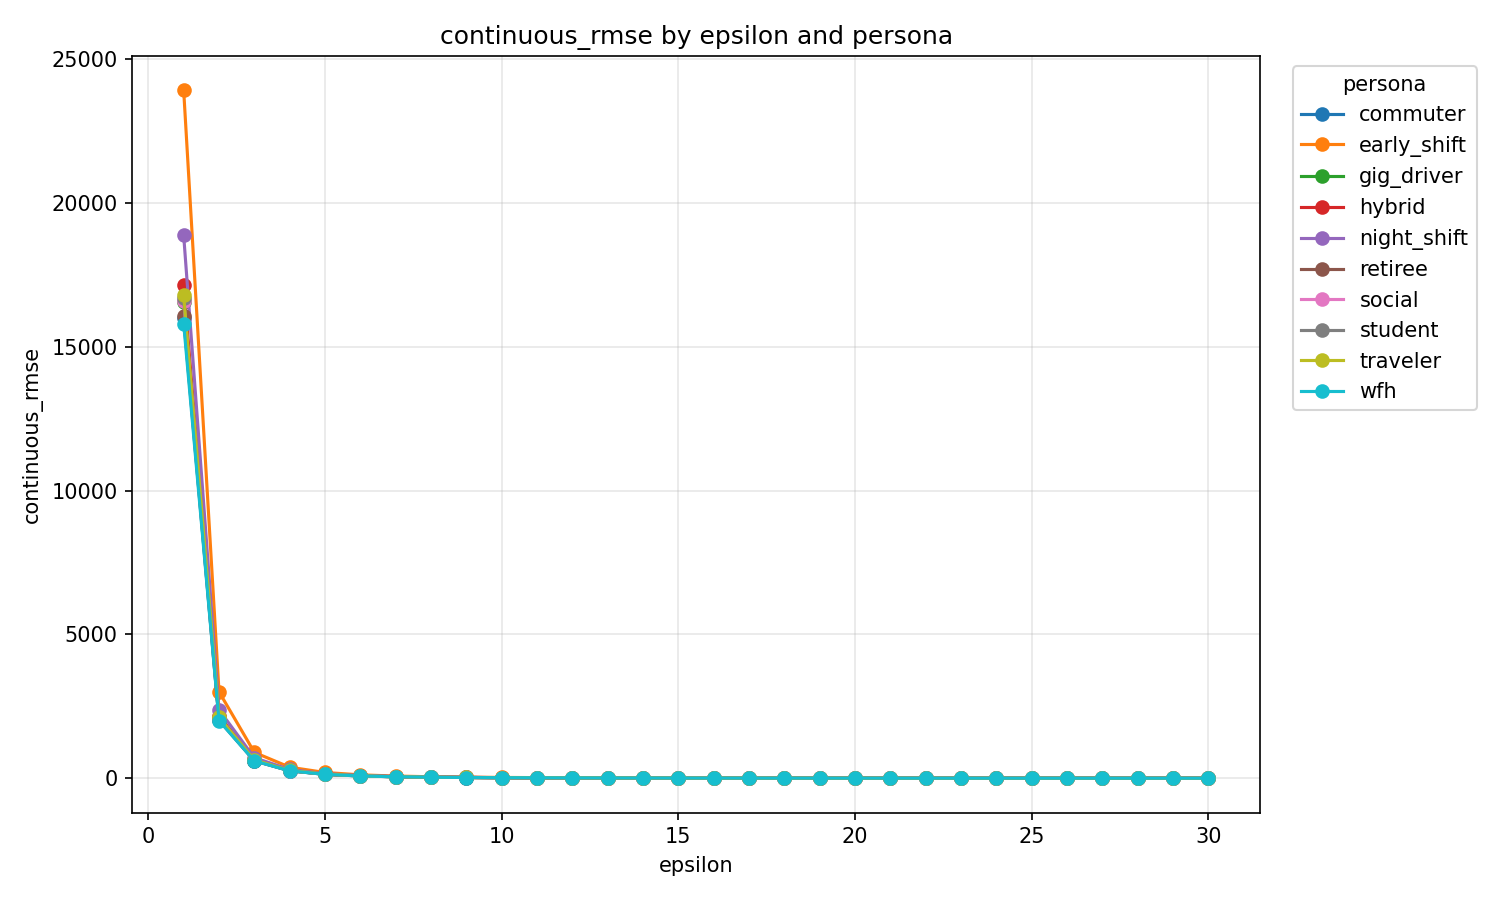
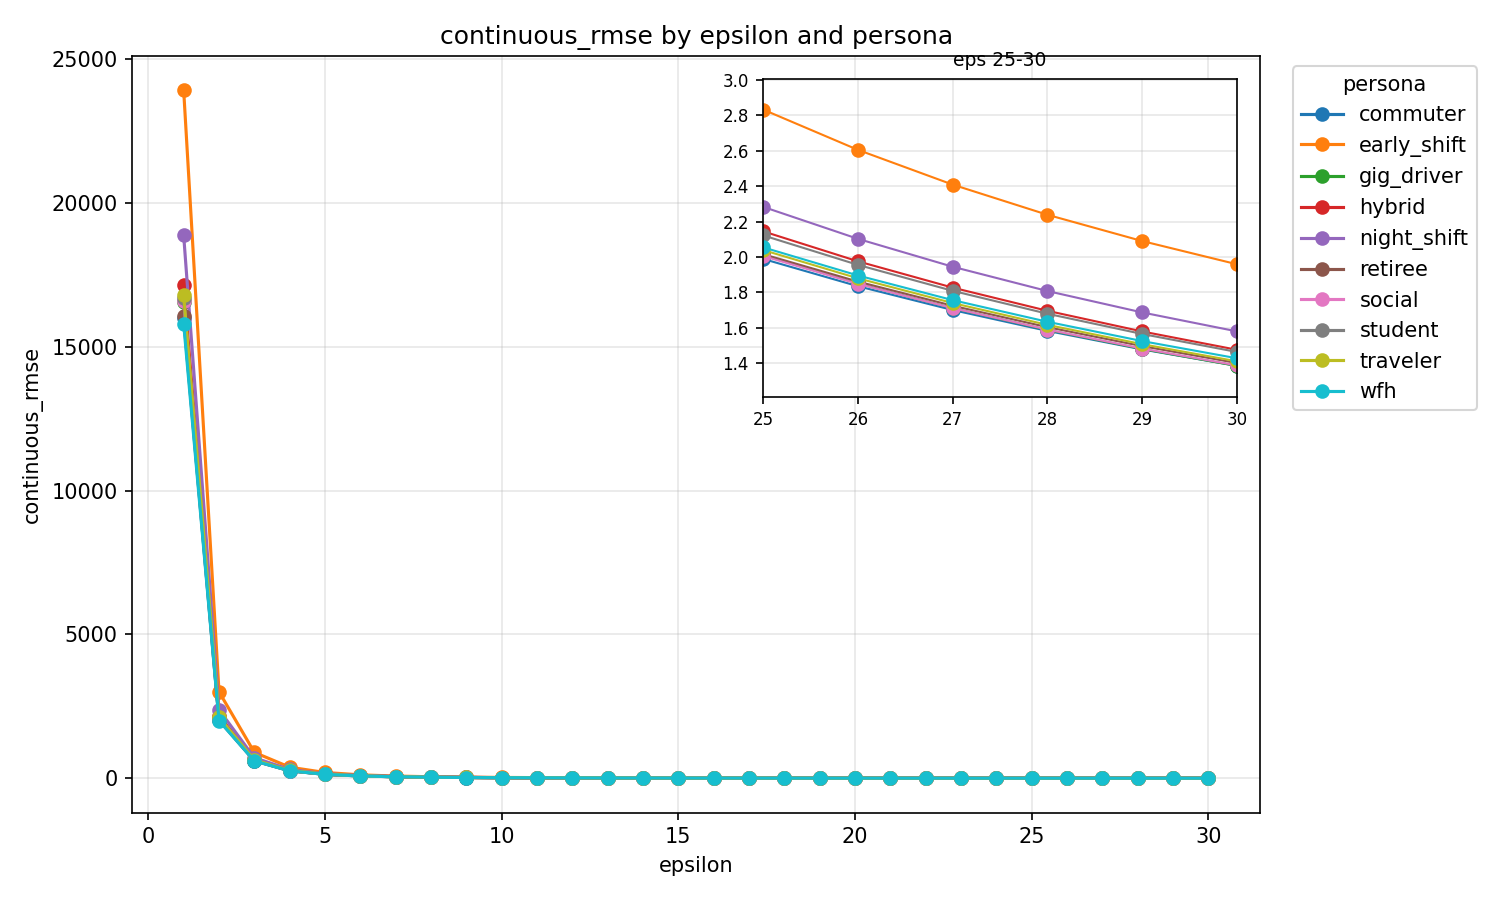
Prepare local differential privacy

diff --git a/mlp_differential_privacy/privatize.py b/mlp_differential_privacy/privatize.py
@@ -3,26 +3,20 @@ import json
 import math
 import random
 import sys
-from dataclasses import dataclass
 from pathlib import Path
-from typing import Dict, List, Sequence, Tuple
+from typing import Dict, List, Tuple
 
 import numpy as np
-import pandas as pd
 import torch
 from opacus import PrivacyEngine
-from opacus.utils.batch_memory_manager import BatchMemoryManager
+from opacus.accountants.utils import get_noise_multiplier
 from torch import nn
 from torch.utils.data import DataLoader, TensorDataset
 
 # Import data loading and model functions from train.py
-sys.path.insert(0, str(Path(__file__).parent.parent / "mlp_train"))
-from train import (
-	META_COLUMNS,
-	DROP_FEATURE_COLUMNS,
-	SplitFrames,
+sys.path.insert(0, str(Path(__file__).parent.parent))
+from mlp_train.train import (
 	MultiOutputMLP,
-	add_persona_dummies,
 	apply_standardizer,
 	build_feature_columns,
 	build_windowed_samples,
@@ -149,23 +143,26 @@ def resolve_device(device_arg: str) -> torch.device:
 def compute_noise_multiplier(
 	dataset_size: int, batch_size: int, target_epsilon: float, target_delta: float, epochs: int
 ) -> float:
-	"""
-	Compute noise multiplier for DP-SGD to achieve target (epsilon, delta).
+	"""Calibrate the DP-SGD noise multiplier with Opacus' accountant helper."""
+	if dataset_size <= 0:
+		raise ValueError("dataset_size must be > 0.")
+	if batch_size <= 0:
+		raise ValueError("batch_size must be > 0.")
+	if target_epsilon <= 0:
+		raise ValueError("target_epsilon must be > 0.")
+	if target_delta <= 0:
+		raise ValueError("target_delta must be > 0.")
+	if epochs <= 0:
+		raise ValueError("epochs must be > 0.")
 
-	Uses the Opacus recommendation formula based on RDP accounting.
-	For a rough estimate, we can use:
-		noise_multiplier ≈ sqrt(2 * log(1.25/delta)) / (epsilon * sqrt(dataset_size))
-
-	This is a simplified formula; Opacus will compute exact accounting during training.
-	"""
-	# Simplified estimate
-	num_steps = (dataset_size // batch_size) * epochs
-	if num_steps == 0:
-		return 1.0
-
-	# Based on RDP accounting formula
-	noise_mult = math.sqrt(2 * math.log(1.25 / target_delta)) / (target_epsilon * math.sqrt(num_steps))
-	return max(noise_mult, 0.1)  # Ensure minimum noise
+	sample_rate = min(batch_size / dataset_size, 1.0)
+	return get_noise_multiplier(
+		target_epsilon=target_epsilon,
+		target_delta=target_delta,
+		sample_rate=sample_rate,
+		epochs=epochs,
+		accountant="rdp",
+	)
 
 
 def clip_state_dict(state_dict: Dict[str, torch.Tensor], clip_value: float) -> Dict[str, torch.Tensor]:
@@ -465,7 +462,7 @@ def main() -> None:
 		print(f"Computed noise multiplier: {noise_multiplier:.6f}")
 
 	# Wrap with PrivacyEngine for DP-SGD
-	privacy_engine = PrivacyEngine()
+	privacy_engine = PrivacyEngine(accountant="rdp")
 	model, optimizer, train_loader = privacy_engine.make_private(
 		module=model,
 		optimizer=optimizer,
@@ -474,7 +471,7 @@ def main() -> None:
 		max_grad_norm=args.max_grad_norm,
 	)
 
-	print(f"PrivacyEngine configured with:")
+	print("PrivacyEngine configured with:")
 	print(f"  - Noise multiplier: {noise_multiplier:.6f}")
 	print(f"  - Max grad norm (clipping): {args.max_grad_norm:.4f}")
 	print(f"  - Batch size: {args.batch_size}")

diff --git a/mlp_differential_privacy/local_dp/quick_train_ldp.py b/mlp_differential_privacy/local_dp/quick_train_ldp.py
@@ -1,0 +1,35 @@
+import subprocess
+from pathlib import Path
+
+SCRIPT_DIR = Path(__file__).resolve().parent
+PROJECT_ROOT = SCRIPT_DIR.parent
+
+OUTPUT_ARTIFACTS_DIR = PROJECT_ROOT / "mlp_differential_privacy" / "artifacts" / "local_dp" / "models" / "local"
+
+TRAIN_SCRIPT = PROJECT_ROOT / "privatize.py"
+
+PERSONAS = ["commuter", "early_shift", "gig_driver", "hybrid", "night_shift", "retiree", "social", "student", "traveler", "wfh"]
+
+processes = []
+for persona in PERSONAS:
+    for i in range(1, 31):
+        epsilon = i
+        print(f"Training local model for persona {persona} and epsilon {epsilon}")
+        output_dir = OUTPUT_ARTIFACTS_DIR / f"epsilon-{epsilon}" / f"{persona}"
+        command = (
+            f'python "{TRAIN_SCRIPT}" '
+            "--epochs 80 "
+            "--batch-size 128 "
+            f'--output-dir "{output_dir}" '
+            f'--persona "{persona}" '
+            '--mode dp-sgd '
+            '--delta 8e-7 '
+            f'--epsilon {epsilon} '
+        )
+        process = subprocess.Popen(command, shell=True)
+        processes.append((epsilon, process))
+        if True:
+            print("Reached 1 active tasks. Waiting...")
+            for epsilon, process in processes:
+                process.wait()
+                print(f"Completed persona {persona}, epsilon {epsilon}")

diff --git a/mlp_differential_privacy/federated/quick_graph_test_pf.py b/mlp_differential_privacy/federated/quick_graph_test_pf.py
@@ -4,6 +4,7 @@ import pandas as pd
 
 try:
 	import matplotlib.pyplot as plt
+	from mpl_toolkits.axes_grid1.inset_locator import inset_axes
 except ImportError as exc:
 	raise SystemExit(
 		"matplotlib is required to generate graphs. Install it with: pip install matplotlib"
@@ -40,11 +41,40 @@ def save_metric_plot(df: pd.DataFrame, metric: str) -> Path:
 	fig, ax = plt.subplots(figsize=(10, 6))
 
 	ordered = df.sort_values(["persona", "epsilon_num"])
+	series_by_persona: dict[str, pd.DataFrame] = {}
 	for persona, group in ordered.groupby("persona", sort=True):
 		values = group[["epsilon_num", metric]].dropna()
 		if values.empty:
 			continue
+		series_by_persona[persona] = values
 		ax.plot(values["epsilon_num"], values[metric], marker="o", label=persona)
+
+	if metric in {"continuous_mae", "continuous_rmse"}:
+		zoom_ax = inset_axes(ax, width="42%", height="42%", loc="upper right", borderpad=1.1)
+		zoom_min = None
+		zoom_max = None
+		for persona, values in series_by_persona.items():
+			zoom_values = values[(values["epsilon_num"] >= 25) & (values["epsilon_num"] <= 30)]
+			if zoom_values.empty:
+				continue
+			zoom_ax.plot(zoom_values["epsilon_num"], zoom_values[metric], marker="o", linewidth=1)
+			persona_min = float(zoom_values[metric].min())
+			persona_max = float(zoom_values[metric].max())
+			zoom_min = persona_min if zoom_min is None else min(zoom_min, persona_min)
+			zoom_max = persona_max if zoom_max is None else max(zoom_max, persona_max)
+
+		zoom_ax.set_xlim(25, 30)
+		if zoom_min is not None and zoom_max is not None:
+			if zoom_min == zoom_max:
+				pad = abs(zoom_min) * 0.05 if zoom_min != 0 else 1.0
+			else:
+				pad = (zoom_max - zoom_min) * 0.12
+			zoom_ax.set_ylim(zoom_min - pad, zoom_max + pad)
+
+		zoom_ax.set_title("eps 25-30", fontsize=9)
+		zoom_ax.set_xticks([25, 26, 27, 28, 29, 30])
+		zoom_ax.tick_params(labelsize=8)
+		zoom_ax.grid(True, alpha=0.3)
 
 	ax.set_title(f"{metric} by epsilon and persona")
 	ax.set_xlabel("epsilon")

diff --git a/mlp_differential_privacy/federated/quick_privatize_federated.py b/mlp_differential_privacy/federated/quick_privatize_federated.py
@@ -9,7 +9,7 @@ INPUT_ARTIFACTS_DIR = PROJECT_ROOT / "mlp_federate" / "artifacts"
 TRAIN_SCRIPT = PROJECT_ROOT / "mlp_differential_privacy" / "privatize.py"
 
 processes = []
-for i in range(1, 31):
+for i in range(21, 31):
     epsilon = i
     print(f"Starting training for epsilon {epsilon}")
     output_dir = OUTPUT_ARTIFACTS_DIR / f"epsilon-{epsilon}"

diff --git a/README.MD b/README.MD
@@ -35,3 +35,6 @@
 9. Test Differential Privacy on the previous model
 - I used the script `mlp_federate/federated/quick_test_privatized_federated.py` to create 300 model tests -- one for each Epsilon level and persona
 - I then extracted the data out of each test file into a single file with `mlp_federate/federated/quick_collect_test_pf.py` and finally created a graph with `mlp_federate/federated/quick_graph_test_pf.py`
+
+10. Run Differential Privacy in SGD mode on every persona and DP level
+- Another script! `mlp_differential_privacy/local_db/quick_train_ldp.py`